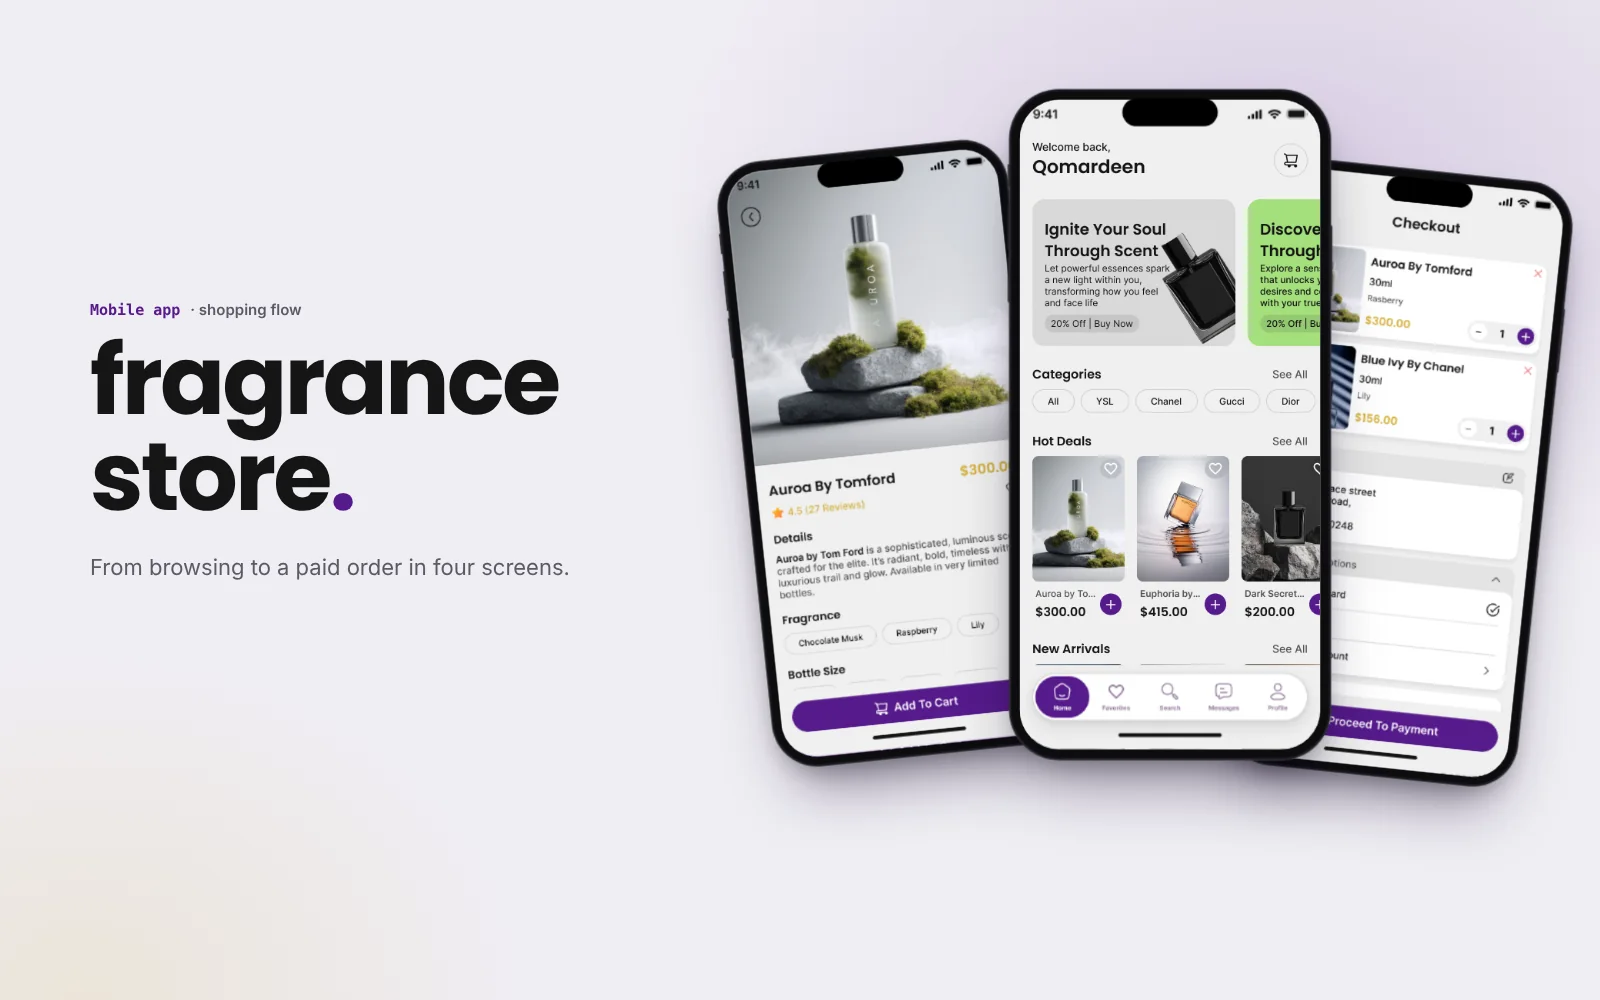
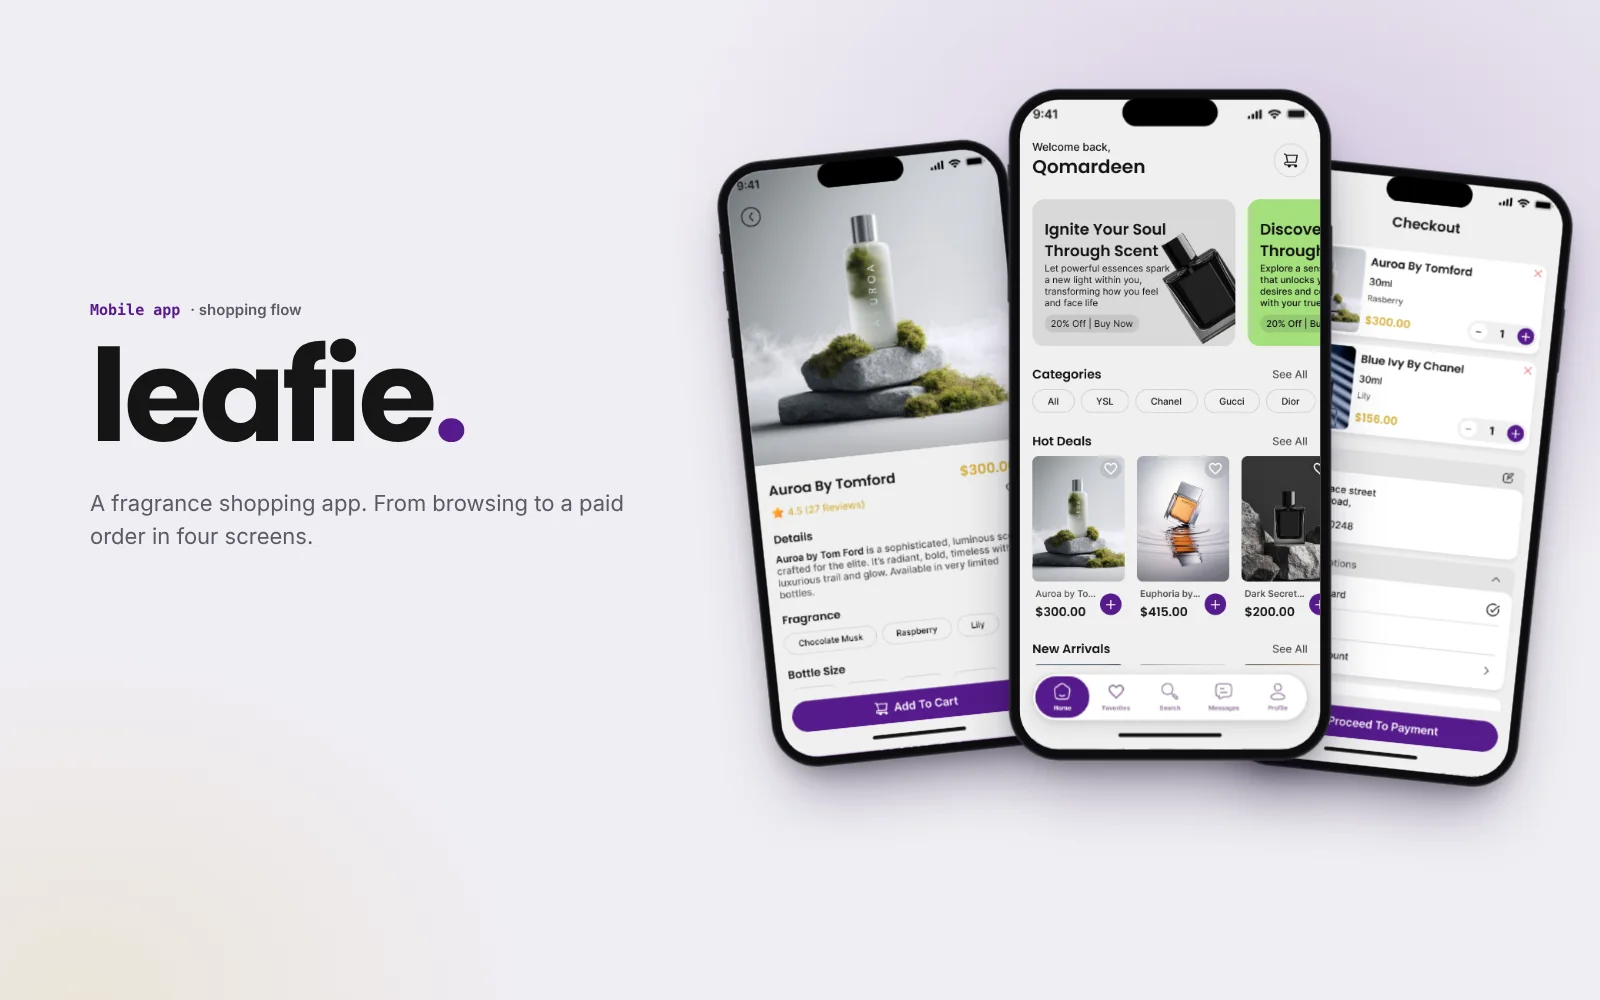
Rename the fragrance app case study to Leafie (working name)
Page, card, SEO title, cover, admin switch label and Atlas all say Leafie.
The address stays /projects/fragrance so links and the on/off setting keep working.

Claude-Session: https://claude.ai/code/session_01687LJkgQdeKSy2oJw1wWwJ

Changed region(s): [[0.0625, 0.341, 0.4062, 0.589]]

diff --git a/src/pages/FragranceProject.tsx b/src/pages/FragranceProject.tsx
@@ -25,14 +25,15 @@ import ScrollReveal from '@/components/ScrollReveal';
 import { ExternalLink } from 'lucide-react';
 
 /*
- * A short case study: a four-screen mobile shopping flow for a fragrance store, made in Figma.
+ * A short case study: Leafie, a four-screen mobile shopping flow for a fragrance store, made in Figma.
+ * ("Leafie" is a working name; the page address stays /projects/fragrance.)
  * Everything written here describes what the screens actually do. No research or results are
  * claimed, because this was a design exercise, not a shipped product.
  */
 const PROTOTYPE_URL = 'https://www.figma.com/proto/ajsn9pYWQaKwRDl1MOQRO9?node-id=52-753&starting-point-node-id=52%3A753';
 
 const frames = [
-  { src: cover, alt: 'Fragrance store app: the product, home and checkout screens', label: 'Cover' },
+  { src: cover, alt: 'Leafie, a fragrance shopping app: the product, home and checkout screens', label: 'Cover' },
   { src: flow, video: flowVideo, alt: 'The four screens in order, each scrolling: browse, choose, check out, paid', label: 'Four screens to a paid order' },
   { src: product, video: productVideo, alt: 'Product page scrolling while a scent and a size are chosen, next to the chip states', label: 'Pick a scent and a size' },
   { src: checkout, video: checkoutVideo, alt: 'Checkout scrolling down to the full total, next to the payment success screen', label: 'Everything on one page' },
@@ -44,7 +45,7 @@ const story = [
     subtitle: 'The brief',
     title: 'From browsing to paid in four screens',
     description:
-      'A small shopping flow for a fragrance store: find a scent, choose it, pay. I gave each screen one job, so nobody has to wonder what to do next.',
+      'Leafie is a small shopping flow for a fragrance store: find a scent, choose it, pay. I gave each screen one job, so nobody has to wonder what to do next.',
     image: flow,
     video: flowVideo,
     imageAlt: frames[1].alt,
@@ -79,8 +80,8 @@ const FragranceProject = () => {
     <>
       <Navigation />
       <PageSEO
-        title="Fragrance Store App — Mobile Shopping Flow by Qomardeen Tijani"
-        description="A four-screen mobile shopping flow for a fragrance store, designed in Figma: browse, choose, check out, paid."
+        title="Leafie — Fragrance Shopping App by Qomardeen Tijani"
+        description="Leafie: a four-screen mobile shopping flow for a fragrance store, designed in Figma. Browse, choose, check out, paid."
         path="/projects/fragrance"
       />
       <PageTransition>
@@ -91,8 +92,8 @@ const FragranceProject = () => {
           <main className="pt-14">
             <CaseStudyHeader
               badge="Mobile app"
-              title="Fragrance Store"
-              lead="A four-screen shopping flow, from browsing scents to a paid order."
+              title="Leafie"
+              lead="A fragrance shopping app: four screens from browsing scents to a paid order."
               facts={[
                 { label: t('caseStudy.role'), value: 'Product Designer (UI)' },
                 { label: t('caseStudy.scope'), value: 'Shopping flow, 4 screens' },

diff --git a/supabase/functions/ai-chat/knowledge.ts b/supabase/functions/ai-chat/knowledge.ts
@@ -66,8 +66,8 @@ export const KNOWLEDGE = `
 - Mobile-first: thumb-friendly screens; the send-money flow was simplified (from 8 steps to 3) with real-time rate visibility and instant confirmation. Screens include onboarding, send money and wallet transactions, profile and settings, and a KYC verification flow.
 - Do not quote outcome percentages for WalPay; none were measured.
 
-# Other project: Fragrance Store (/projects/fragrance)
-- What: a four-screen mobile shopping flow for a fragrance store, designed by Qomardeen in Figma: home/product listing, product page, checkout, payment success.
+# Other project: Leafie, a fragrance shopping app (/projects/fragrance)
+- What: Leafie (working name), a four-screen mobile shopping flow for a fragrance store, designed by Qomardeen in Figma: home/product listing, product page, checkout, payment success.
 - Listed under "Other projects", not the full case studies. A design exercise: no research, users or results to report, so never claim any.
 - Decisions visible in the screens: one job per screen; product photo first, then price, rating, scent and size chips (selected chip = gold outline); Add To Cart pinned at the bottom; checkout on one page with quantity steppers, address, payment and shipping, and tax and shipping listed before the total; success screen with order summary and Track Order.
 - System: purple #551A8B for actions, gold #D4AF37 for prices and selection, Poppins for headings, Inter for text. There is a clickable Figma prototype linked on the page.

diff --git a/src/components/AIAssistantWidget.tsx b/src/components/AIAssistantWidget.tsx
@@ -72,7 +72,7 @@ const rememberedFacts = (content: string) =>
 const pageName = (path: string) => {
   const known: Record<string, string> = {
     '/': 'Home', '/projects': 'All projects', '/projects/uptime': 'UpTime case study',
-    '/projects/walpay': 'WalPay case study', '/projects/portfolio': 'Portfolio case study', '/projects/fragrance': 'Fragrance Store case study',
+    '/projects/walpay': 'WalPay case study', '/projects/portfolio': 'Portfolio case study', '/projects/fragrance': 'Leafie case study',
     '/hire': 'Hire page', '/hire#contact': 'Contact Qomardeen', '/about': 'About Qomardeen',
     '/explore': 'Explore', '/explore/articles': 'Articles', '/explore/thinking': 'Thinking',
     '/explore/architecture': 'Architecture',

diff --git a/src/lib/siteSettings.ts b/src/lib/siteSettings.ts
@@ -190,7 +190,7 @@ export const BUILT_IN_PROJECTS = [
   { slug: 'uptime', title: 'UpTime CMMS' },
   { slug: 'walpay', title: 'WalPay' },
   { slug: 'portfolio', title: 'This portfolio' },
-  { slug: 'fragrance', title: 'Fragrance Store app' },
+  { slug: 'fragrance', title: 'Leafie (fragrance app)' },
 ] as const;
 export const isBuiltInProject = (slug: string) => BUILT_IN_PROJECTS.some(p => p.slug === slug);
 

diff --git a/src/pages/Projects.tsx b/src/pages/Projects.tsx
@@ -84,7 +84,7 @@ const Projects = () => {
     },
     {
       id: 4,
-      title: "Fragrance Store — Mobile Shopping Flow",
+      title: "Leafie — Fragrance Shopping App",
       context: "Four screens from browsing scents to a paid order",
       role: "Product Designer (UI)",
       keyDecisions: "One job per screen, one selected look, every cost shown before paying",
